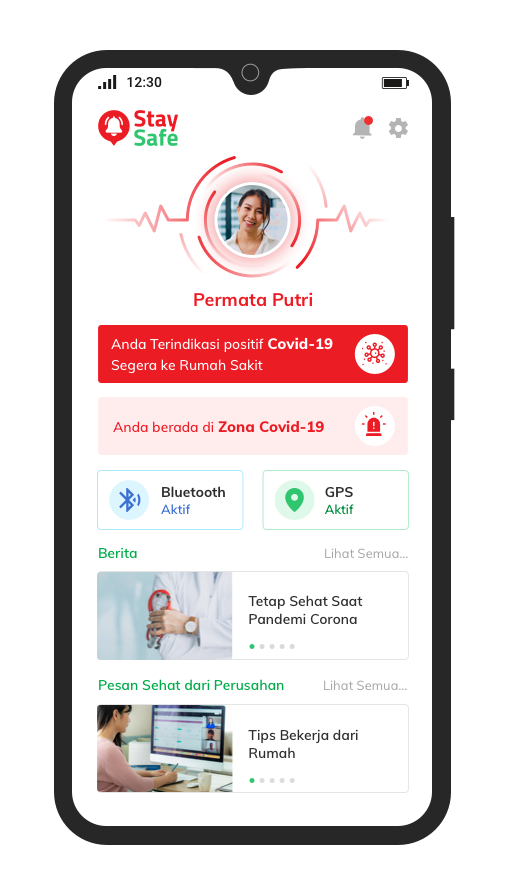
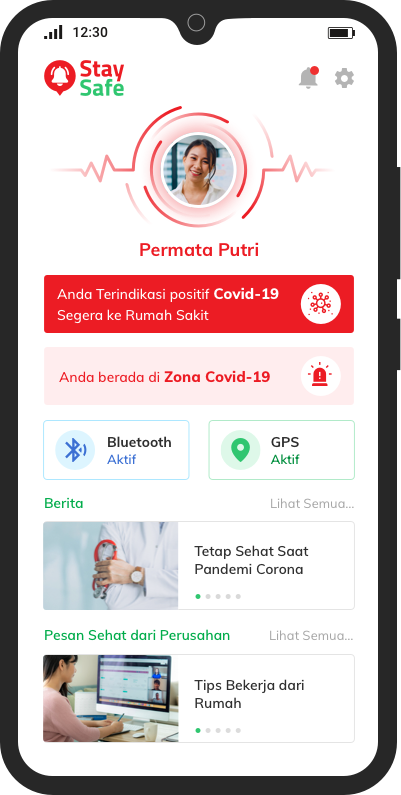
update

diff --git a/index.html b/index.html
@@ -98,20 +98,20 @@
 		 	<div class="radar">
 		 	 	<svg xmlns="http://www.w3.org/2000/svg"  viewBox="0 0 1100 700" class="filter">
 				<g id="masking" >
-					<path id="stroke1" class="path st0" stroke="#EC1C24" stroke-width="4" stroke-linejoin="round" stroke-linecap="round" stroke-miterlimit="10" stroke-dasharray="500" stroke-dashoffset="500"   fill="none"  d="M14.6,231h125.3l13,17.8c0.3,0.4,0.6,0.4,0.9,0.4c0.2,0,0.6-0.1,0.8-0.5l19-39.6l28.9,57.8
+					<path id="stroke1" class="path st0" stroke="#EC1C24" stroke-width="5" stroke-linejoin="round" stroke-linecap="round" stroke-miterlimit="10" stroke-dasharray="500" stroke-dashoffset="500"   fill="none"  d="M14.6,231h125.3l13,17.8c0.3,0.4,0.6,0.4,0.9,0.4c0.2,0,0.6-0.1,0.8-0.5l19-39.6l28.9,57.8
 				c0.2,0.4,0.5,0.6,1,0.5c0.4,0,0.7-0.3,0.8-0.7l20.9-80.3l23.7,44.1c0.2,0.3,0.5,0.5,0.9,0.5h62.9c0.5,0,1-0.4,1-1l0-3.5
 				c0.7-46.2,16-89.9,44.1-126.6c28-36.5,66-62.5,110.1-75.3"/>
-				<path id="stroke2" class="st1 path" stroke="#EC1C24" stroke-width="4" stroke-linejoin="round" stroke-linecap="round" stroke-miterlimit="10" stroke-dasharray="500" stroke-dashoffset="500"   fill="none"d="M624.3,69c-28.8-16.9-61.8-25.9-95.4-25.9c-38.1,0-74.8,11.3-106.1,32.7
+				<path id="stroke2" class="st1 path" stroke="#EC1C24" stroke-width="5" stroke-linejoin="round" stroke-linecap="round" stroke-miterlimit="10" stroke-dasharray="500" stroke-dashoffset="500"   fill="none"d="M624.3,69c-28.8-16.9-61.8-25.9-95.4-25.9c-38.1,0-74.8,11.3-106.1,32.7
 					c-30.6,20.9-54.2,49.9-68.2,84"/>
-				<path id="stroke3" class="st1 path" stroke="#EC1C24" stroke-width="4" stroke-linejoin="round" stroke-linecap="round" stroke-miterlimit="10" stroke-dasharray="500" stroke-dashoffset="500"   fill="none" d="M528.9,379.7c-84.1,0-152.6-68.4-152.6-152.5c0-33,10.4-64.4,30-90.8l0.5-0.6
+				<path id="stroke3" class="st1 path" stroke="#EC1C24" stroke-width="5" stroke-linejoin="round" stroke-linecap="round" stroke-miterlimit="10" stroke-dasharray="500" stroke-dashoffset="500"   fill="none" d="M528.9,379.7c-84.1,0-152.6-68.4-152.6-152.5c0-33,10.4-64.4,30-90.8l0.5-0.6
 					c0.1-0.1,0.2-0.2,0.2-0.4 M528.9,379.7"/>
-				<path id="stroke4" class="st0 path" stroke="#EC1C24" stroke-width="4" stroke-linejoin="round" stroke-linecap="round" stroke-miterlimit="10" stroke-dasharray="500" stroke-dashoffset="500"   fill="none" d="M684.5,336.8c-0.3,0.5-0.6,0.9-0.9,1.2c-35.5,49.5-92.6,79.4-154.7,79.4
+				<path id="stroke4" class="st0 path" stroke="#EC1C24" stroke-width="5" stroke-linejoin="round" stroke-linecap="round" stroke-miterlimit="10" stroke-dasharray="500" stroke-dashoffset="500"   fill="none" d="M684.5,336.8c-0.3,0.5-0.6,0.9-0.9,1.2c-35.5,49.5-92.6,79.4-154.7,79.4
 					c-82.7,0-155.1-53.2-180.7-130.3"/>
-				<path id="stroke5" class="st1 path" stroke="#EC1C24" stroke-width="4" stroke-linejoin="round" stroke-linecap="round" stroke-miterlimit="10" stroke-dasharray="500" stroke-dashoffset="500"   fill="none"d="M397.7,423.1c-1.5-1-3-2-4.5-3c-49.8-34.5-84.4-85.8-97.4-144.6l0-0.2"/>
+				<path id="stroke5" class="st1 path" stroke="#EC1C24" stroke-width="5" stroke-linejoin="round" stroke-linecap="round" stroke-miterlimit="10" stroke-dasharray="500" stroke-dashoffset="500"   fill="none"d="M397.7,423.1c-1.5-1-3-2-4.5-3c-49.8-34.5-84.4-85.8-97.4-144.6l0-0.2"/>
 				<path id="stroke6" class="st1 path" stroke="#EC1C24" stroke-width="8" stroke-linejoin="round" stroke-linecap="round" stroke-miterlimit="10" stroke-dasharray="500" stroke-dashoffset="500"   fill="none"d="M522.9,75.8c84.1,0,152.6,68.4,152.6,152.5c0,28.9-8.1,57.1-23.5,81.4c-0.5,0.7-1.8,2.7-1.8,2.8"
 					/>
-				<path id="stroke7" class="st1 path" stroke="#EC1C24" stroke-width="4" stroke-linejoin="round" stroke-linecap="round" stroke-miterlimit="10" stroke-dasharray="500" stroke-dashoffset="500"   fill="none"d="M681.5,22.9l0.9,0.7c24.2,19,44.2,42.2,59.5,68.9c15.6,27.1,25.5,56.6,29.6,87.5l0,0.2"/>
-				<path id="stroke8" class="st0 path" stroke="#EC1C24" stroke-width="4" stroke-linejoin="round" stroke-linecap="round" stroke-miterlimit="10" stroke-dasharray="500" stroke-dashoffset="500"   fill="none" d="M1052.2,233.3H927l-13-17.8c-0.3-0.4-0.6-0.4-0.9-0.4c-0.2,0-0.6,0.1-0.8,0.5l-19,39.6l-28.9-57.8
+				<path id="stroke7" class="st1 path" stroke="#EC1C24" stroke-width="5" stroke-linejoin="round" stroke-linecap="round" stroke-miterlimit="10" stroke-dasharray="500" stroke-dashoffset="500"   fill="none"d="M681.5,22.9l0.9,0.7c24.2,19,44.2,42.2,59.5,68.9c15.6,27.1,25.5,56.6,29.6,87.5l0,0.2"/>
+				<path id="stroke8" class="st0 path" stroke="#EC1C24" stroke-width="5" stroke-linejoin="round" stroke-linecap="round" stroke-miterlimit="10" stroke-dasharray="500" stroke-dashoffset="500"   fill="none" d="M1052.2,233.3H927l-13-17.8c-0.3-0.4-0.6-0.4-0.9-0.4c-0.2,0-0.6,0.1-0.8,0.5l-19,39.6l-28.9-57.8
 					c-0.2-0.4-0.5-0.6-1-0.5c-0.4,0-0.7,0.3-0.8,0.7L841.8,278l-23.7-44.1c-0.2-0.3-0.5-0.5-0.9-0.5h-62.9c-0.5,0-1,0.4-1,1l0,3.5
 					c-0.7,46.2-16,89.9-44.1,126.6c-28,36.5-66,62.5-110.1,75.3"/>
 				</g>

diff --git a/assets/style.css b/assets/style.css
@@ -89,7 +89,7 @@ body {
 	    	z-index: 1;
 		}
 		.device {
-		    width: 300px;
+		    width: 280px;
 		    height: 500px;
 		    background-image: url(img/device.png);
 		    background-size: contain;
